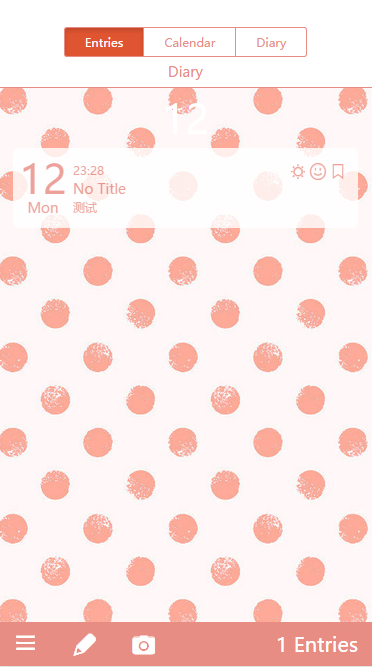
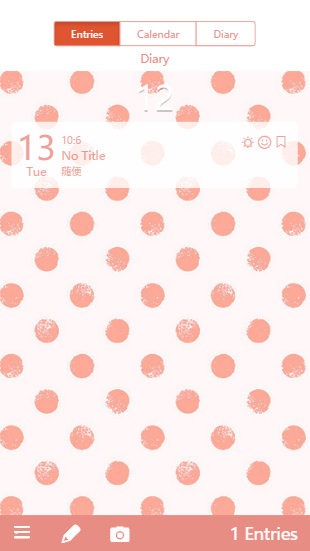
optimize css

diff --git a/diary.html b/diary.html
@@ -20,7 +20,6 @@
 		header{
 			/*padding for导航栏*/
 			padding-top: 28px;
-			border-bottom: 1px solid #5A95BA;
 			position: fixed;
 			width: 100vw;
 			background-color: #fff;
@@ -184,7 +183,7 @@
 			$("#diary-content").append('<img src="avatar.png" alt="avatar" class="img-circle" style="width:100%">');
 		}
 		window.onbeforeunload = function(e) {
-			var dialogText = 'Dialog text here';
+			var dialogText = 'leaveing page without save';
 			e.returnValue = dialogText;
 			return dialogText;
 		};

diff --git a/calendar.html b/calendar.html
@@ -20,7 +20,6 @@
 		header{
 			/*padding for导航栏*/
 			padding-top: 28px;
-			border-bottom: 1px solid #5A95BA;
 			position: fixed;
 			width: 100vw;
 			background-color: #fff;
@@ -33,8 +32,9 @@
 		#main{
 			min-height: 100vh;
 			box-sizing: border-box;
-			padding-top:89px; 
+			padding-top:88px; 
 			padding-bottom: 44px;
+			border-top: 1px solid #5A95BA;
 		}
 		.app{
 			background-color: #5A95BA;

diff --git a/entries.html b/entries.html
@@ -17,7 +17,6 @@
 			top: 0;
 			z-index: 999;
 			padding-top: 28px;
-			border-bottom: 1px solid #5A95BA;
 			width: 100vw;
 			background-color: #fff;
 		}
@@ -45,6 +44,7 @@
 			font-size: 40px;
 			color: #FFF;
 			text-align: center;
+			text-shadow: 0 2px 0 rgba(0,0,0,0.2);
 		}
 		.date-and-week{
 			padding-top: 10px;

diff --git a/home.html b/home.html
@@ -21,10 +21,9 @@
 		header{
 			/*padding for导航栏*/
 			padding-top: 22px;
-			height: 89px;
+			height: 88px;
 			position: fixed;
 			width: 100vw;
-			/*background-image: url('52502973_p0.png');*/
 			background-color: #5A95BA;
 			color: #fff;
 		}
